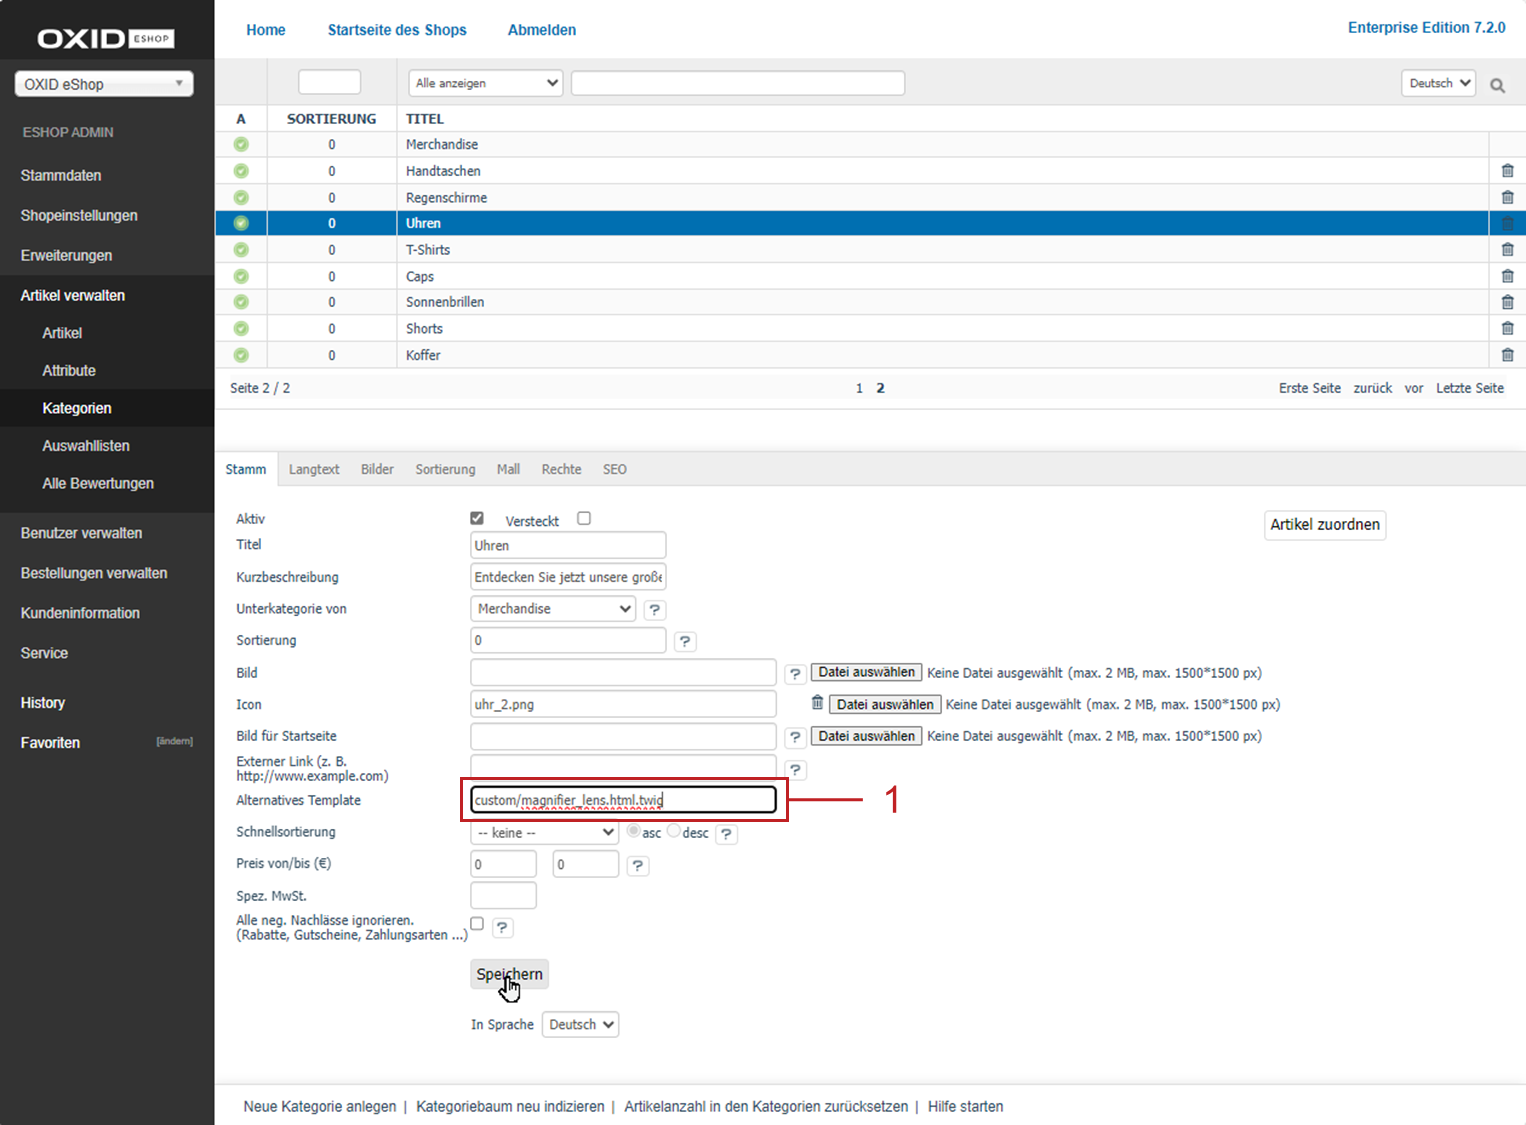
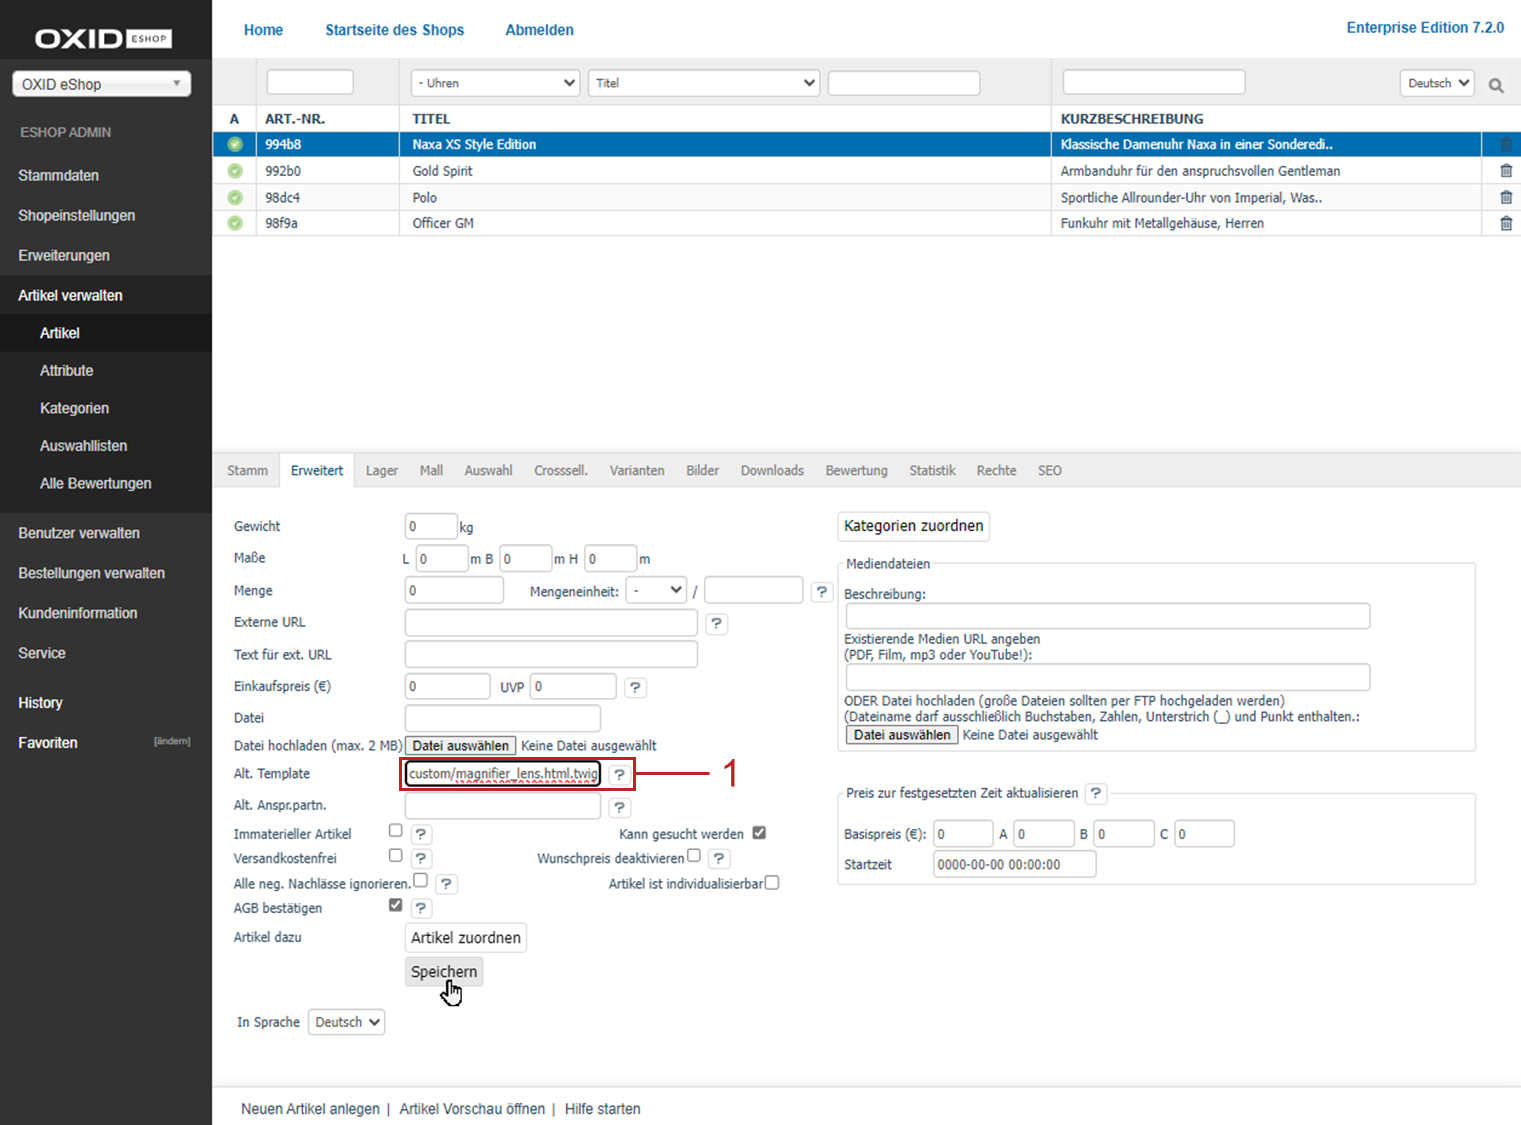
OXDEV-8543: Draft Zoom options finalized

diff --git a/konfiguration/bilder.rst b/konfiguration/bilder.rst
@@ -146,19 +146,17 @@ Die Einstellungen sind daher beim aktiven Theme hinterlegt.
 Zoom wählen
 -----------
 
-.. todo: #HR: Müsen wir als technische Voraussetzung erwähnen, dass es nur mit dem APEX Theme geht?
+Beeinflussen Sie je nach Anwendung und Produkt die Kaufbereitschaft positiv, indem Sie beim APEX-Theme mit einer von drei Arten, Bilder zu vergrößern, unterschiedliche psychologische Bedürfnisse der Kunden ansprechen.
 
-Beeinflussen Sie je nach Anwendung und Produkt die Kaufbereitschaft positiv, indem sie mit einem von drei Arten, Bilder zu vergrößern, unterschiedliche psychologische Bedürfnisse der Kunden ansprechen.
-
-* Hover Zoom: Diese Funktion bietet eine interaktive Möglichkeit, Produktbilder im Detail zu betrachten.
+* Hover-Zoom: Diese Funktion bietet eine interaktive Möglichkeit, Produktbilder im Detail zu betrachten.
 
   Wenn der Mauszeiger über das Bild fährt, wird es vergrößert, und die Vergrößerung folgt der Mausbewegung.
 
-  Der Hover Zoom bietet sich an für Shops mit einer breiten Produktpalette, in denen Kunden häufig zwischen verschiedenen Produkten wechseln. Die interaktive Natur des Hover Zooms kann das Nutzererlebnis verbessern und die Verweildauer erhöhen.
+  Der Hover-Zoom bietet sich an für Shops mit einer breiten Produktpalette, in denen Kunden häufig zwischen verschiedenen Produkten wechseln. Die interaktive Natur des Hover-Zooms kann das Nutzererlebnis verbessern und die Verweildauer erhöhen.
 
-  Der Hover Zoom fördert Neugier und Engagement, was zu schnelleren, emotional getriebenen Kaufentscheidungen führen kann.
+  Der Hover-Zoom fördert Neugier und Engagement, was zu schnelleren, emotional getriebenen Kaufentscheidungen führen kann.
 
-* Modal-Zoom: Bei einem Klick auf das Produktbild wird dieses in einem größeren Modal-Fenster geöffnet, in dem weitere Details sichtbar werden.
+* Modal-Zoom: Beim Klick auf das Produktbild wird dieses in einem größeren Modal-Fenster geöffnet, in dem weitere Details sichtbar werden.
 
   Zusätzlich kann der Nutzer innerhalb des Modals nochmals in das Bild hineinzoomen, um besonders feine Details zu erkennen.
 
@@ -172,7 +170,7 @@ Beeinflussen Sie je nach Anwendung und Produkt die Kaufbereitschaft positiv, ind
 
   Dies ermöglicht eine präzise Betrachtung spezifischer Produktdetails, ohne das gesamte Bild zu vergrößern.
 
-  Der Lupen-Zoom betont Präzision und Qualität, was besonders bei Kunden ankommt, die auf Details und Spezifikationen achten, und kann so das Vertrauen in spezifische Produkteigenschaften stärken.
+  Der Lupen-Zoom betont Präzision und Qualität, was besonders bei Kunden gut ankommt, die auf Details und Spezifikationen achten, und kann so das Vertrauen in spezifische Produkteigenschaften stärken.
 
   .. _oxbaaz01:
 
@@ -192,16 +190,16 @@ Wählen Sie die Art des Zooms global für Ihren eShop.
 
 |procedure|
 
-1. Wählen Sie unter :menuselection:`Erweiterungen --> Themes` das APEX Theme.
+1. Wählen Sie unter :menuselection:`Erweiterungen --> Themes` das APEX-Theme.
 #. Expandieren Sie auf der Registerkarte :guilabel:`Einstell.` den Bereich :guilabel:`Produktdetailseite`.
 #. Wählen Sie unter :guilabel:`Zoom type for product detail page` die gewünschte Art des Zooms.
 #. Speichern Sie Ihre Einstellungen.
 
 
-Zoom für individuelle Produkte oder Kategorien festlegen
+Zoom für individuelle Produkte festlegen
 ^^^^^^^^^^^^^^^^^^^^^^^^^^^^^^^^^^^^^^^^^^^^^^^^^^^^^^^^
 
-Erstellen Sie bei Bedarf alternative Templates, um einzelnen Produkten oder Produkt-Kategorien eine individuelle Zoom-Option zuzuweisen.
+Weisen Sie Sie bei Bedarf einzelnen Produkten eine individuelle Zoom-Option zu.
 
 Zusätzlich zur Einstellung einer Standard-Bild-Zoom-Option in den Theme-Einstellungen können Sie damit die drei Zoom-Optionen individuell für jedes Produkt anwenden.
 
@@ -209,25 +207,8 @@ Damit haben Sie eine größere Flexibilität für verschiedene Produkte.
 
 |procedure|
 
-1. Erstellen Sie Sie ein alternatives Template für das Produkt und speichern Sie es im Root-Verzeichnis Ihres OXID eShops.
-
-   Verwenden Sie die folgenden Pfade:
-
-   * Hover-Zoom: ``custom/hover_zoom.html.twig``
-   * Modal-Zoom: ``custom/modal_zoom.html.twig``
-   * Lupen-Zoom: ``custom/magnifier_lens.html.twig``
-
-   .. todo: #TK/#HR: Where do we describe how to create such a template?
-      Weitere Informationen finden Sie in der Oxid eShop Entwickler-Dokumentation unter
-      * Using Twig in module templates — OXID eShop developer documentation 7.1 documentation (oxid-esales.com)
-      * Extend twig compatible theme with a child theme — OXID eShop developer documentation 7.1 documentation (oxid-esales.com)
-
-#. Sie haben folgende Möglichkeiten:
-
-   * Artikel-Ebene: Wählen Sie unter :menuselection:`Artikel verwalten --> Artikel` das Produkt und wählen Sie die Registerkarte :guilabel:`Einstell.`.
-   * Kategorie-Ebene: Wählen Sie :menuselection:`Artikel verwalten --> Kategorien`.
-
-#. Geben Sie im Eingabefeld :guilabel:`Alternatives Template` (:ref:`oxbaaz02`, Pos. 1) den Pfad an, in dem Sie Ihr Template gespeichert haben:
+1. Wählen Sie unter :menuselection:`Artikel verwalten --> Artikel` das Produkt und wählen Sie die Registerkarte :guilabel:`Einstell.`.
+#. Legen Sie den gewünschten Zoom fest, indem Sie im Eingabefeld :guilabel:`Alternatives Template` (:ref:`oxbaaz02`, Pos. 1) den Pfad des entsprechenden Templates eingeben.
 
    * Hover-Zoom: ``custom/hover_zoom.html.twig``
    * Modal-Zoom: ``custom/modal_zoom.html.twig``
@@ -236,15 +217,16 @@ Damit haben Sie eine größere Flexibilität für verschiedene Produkte.
    .. _oxbaaz02:
 
    .. figure:: ../media/screenshots/oxbaaz02.png
-      :alt: Beispiel: Alternatives Template für eine Produkt-Kategorie festlegen
+      :alt: Alternatives Template für ein Produkt festlegen
       :width: 650
       :class: with-shadow
 
-      Abb.: Beispiel: Alternatives Template für eine Produkt-Kategorie festlegen
+      Abb.: Alternatives Template für ein Produkt festlegen
 
 #. Speichern Sie Ihre Einstellungen.
+#. Optional: Um die Einheitlichkeit der Darstellung zu gewährleisten, wiederholen Sie die Schritte für alle Produkte einer Kategorie.
 
-
+   Hintergrund: Es ist nicht möglich, die Zoom-Templates auf Kategorieebene anzuwenden.
 
 
 

diff --git a/releases/releases-72/oxid-eshop-720.rst b/releases/releases-72/oxid-eshop-720.rst
@@ -17,24 +17,22 @@ Verbessern Sie mit drei neuen Zoom-Optionen das Einkaufserlebnis für Ihre Kunde
 
   Wenn der Mauszeiger über das Bild fährt, wird es vergrößert, und die Vergrößerung folgt der Mausbewegung.
 
-  Dies erlaubt den Nutzern, verschiedene Bildbereiche genau zu untersuchen und erhöht die Interaktivität und das Engagement.
+  Dies erlaubt es den Nutzern, verschiedene Bildbereiche genau zu untersuchen und erhöht die Interaktivität und das Engagement.
 
-* Modal-Zoom: Bei einem Klick auf das Produktbild wird dieses in einem größeren Modal-Fenster geöffnet, in dem weitere Details sichtbar werden.
+* Modal-Zoom: Beim Klick auf das Produktbild wird dieses in einem größeren Modal-Fenster geöffnet, in dem weitere Details sichtbar werden.
 
-  Zusätzlich kann der Nutzer innerhalb des Modals nochmals in das Bild hineinzoomen, um besonders feine Details zu erkennen.
+  Zusätzlich kann der Nutzer innerhalb des Modals in das Bild hineinzoomen, um besonders feine Details zu erkennen.
 
   Dies bietet eine umfassende Möglichkeit, Produkte genau unter die Lupe zu nehmen.
 
-* Magnifier Zoom: Hier wird eine Lupenfunktion aktiviert, wenn der Mauszeiger über das Bild fährt.
+* Magnifier-Zoom: Hier wird eine Lupenfunktion aktiviert, wenn der Mauszeiger über das Bild fährt.
 
   Ein separater Bereich zeigt eine stark vergrößerte Ansicht des Bildausschnitts direkt unter dem Mauszeiger.
 
   Dies ermöglicht eine präzise Betrachtung spezifischer Produktdetails, ohne das gesamte Bild zu vergrößern.
 
 
-Sie können den gewünschten Zoom global für Ihren OXID eShop einstellen.
-
-Mit speziellen Templates können Sie die Art des Zooms für einzelne Artikel oder Kategorien festlegen.
+Sie können den gewünschten Zoom global für Ihren OXID eShop einstellen. Zusätzlich können Sie für einzelne Artikel eine individuelle Zoom-Art festlegen.
 
 Weitere Informationen finden Sie unter :ref:`konfiguration/bilder:Zoom wählen`.
 
